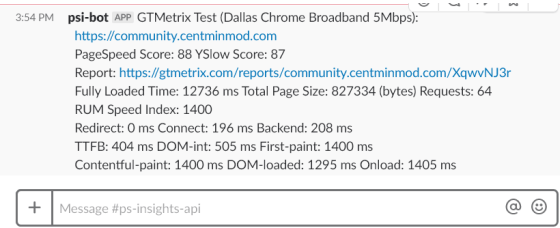
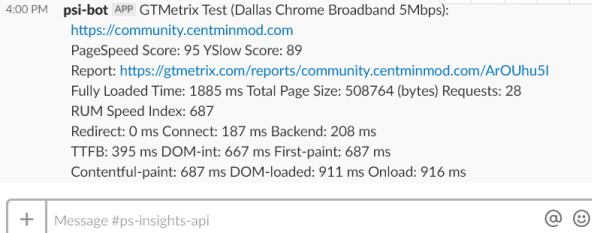
update readme

diff --git a/readme.md b/readme.md
@@ -776,55 +776,53 @@ cd /root/tools/google-insights-api-tools
 
 ./gitools.sh gtmetrix https://community.centminmod.com
 
-{"credits_left":60,"test_id":"EMhil9u9","poll_state_url":"https://gtmetrix.com/api/0.1/test/EMhil9u9"}
+{"credits_left":56,"test_id":"GBIHKb7W","poll_state_url":"https://gtmetrix.com/api/0.1/test/GBIHKb7W"}
 waiting on results...
 {
   "resources": {
-    "video": "https://gtmetrix.com/api/0.1/test/EMhil9u9/video",
-    "filmstrip": "https://gtmetrix.com/api/0.1/test/EMhil9u9/filmstrip",
-    "pagespeed_files": "https://gtmetrix.com/api/0.1/test/EMhil9u9/pagespeed-files",
-    "report_pdf_full": "https://gtmetrix.com/api/0.1/test/EMhil9u9/report-pdf?full=1",
-    "pagespeed": "https://gtmetrix.com/api/0.1/test/EMhil9u9/pagespeed",
-    "report_pdf": "https://gtmetrix.com/api/0.1/test/EMhil9u9/report-pdf",
-    "har": "https://gtmetrix.com/api/0.1/test/EMhil9u9/har",
-    "screenshot": "https://gtmetrix.com/api/0.1/test/EMhil9u9/screenshot",
-    "yslow": "https://gtmetrix.com/api/0.1/test/EMhil9u9/yslow"
+    "report_pdf": "https://gtmetrix.com/api/0.1/test/GBIHKb7W/report-pdf",
+    "pagespeed": "https://gtmetrix.com/api/0.1/test/GBIHKb7W/pagespeed",
+    "har": "https://gtmetrix.com/api/0.1/test/GBIHKb7W/har",
+    "pagespeed_files": "https://gtmetrix.com/api/0.1/test/GBIHKb7W/pagespeed-files",
+    "report_pdf_full": "https://gtmetrix.com/api/0.1/test/GBIHKb7W/report-pdf?full=1",
+    "yslow": "https://gtmetrix.com/api/0.1/test/GBIHKb7W/yslow",
+    "screenshot": "https://gtmetrix.com/api/0.1/test/GBIHKb7W/screenshot"
   },
   "error": "",
   "results": {
-    "onload_time": 1083,
-    "first_contentful_paint_time": 1010,
-    "page_elements": 45,
-    "report_url": "https://gtmetrix.com/reports/community.centminmod.com/gbsDci7b",
+    "onload_time": 916,
+    "first_contentful_paint_time": 687,
+    "page_elements": 28,
+    "report_url": "https://gtmetrix.com/reports/community.centminmod.com/ArOUhu5I",
     "redirect_duration": 0,
-    "first_paint_time": 1010,
+    "first_paint_time": 687,
     "dom_content_loaded_duration": null,
-    "dom_content_loaded_time": 1029,
-    "dom_interactive_time": 570,
-    "page_bytes": 756837,
-    "page_load_time": 1083,
-    "html_bytes": 16615,
-    "fully_loaded_time": 3168,
-    "html_load_time": 465,
-    "rum_speed_index": 1010,
-    "yslow_score": 88,
-    "pagespeed_score": 93,
-    "backend_duration": 221,
-    "onload_duration": 5,
-    "connect_duration": 244
+    "dom_content_loaded_time": 911,
+    "dom_interactive_time": 667,
+    "page_bytes": 508764,
+    "page_load_time": 916,
+    "html_bytes": 16691,
+    "fully_loaded_time": 1885,
+    "html_load_time": 395,
+    "rum_speed_index": 687,
+    "yslow_score": 89,
+    "pagespeed_score": 95,
+    "backend_duration": 208,
+    "onload_duration": 2,
+    "connect_duration": 187
   },
   "state": "completed"
 }
 
 --------------------------------------------------------------------------------
 GTMetrix Test (Dallas Chrome Broadband 5Mbps): https://community.centminmod.com
-PageSpeed Score: 93 YSlow Score: 88
-Report: https://gtmetrix.com/reports/community.centminmod.com/gbsDci7b
-Fully Loaded Time: 3168 ms Total Page Size: 756837 (bytes) Requests: 45
-RUM Speed Index: 1010
-Redirect: 0 ms Connect: 244 ms Backend: 221 ms
-TTFB: 465 ms DOM-int: 570 ms First-paint: 1010 ms
-Contentful-paint: 1010 ms DOM-loaded: 1029 ms Onload: 1083 ms
+PageSpeed Score: 95 YSlow Score: 89
+Report: https://gtmetrix.com/reports/community.centminmod.com/ArOUhu5I
+Fully Loaded Time: 1885 ms Total Page Size: 508764 (bytes) Requests: 28
+RUM Speed Index: 687
+Redirect: 0 ms Connect: 187 ms Backend: 208 ms
+TTFB: 395 ms DOM-int: 667 ms First-paint: 687 ms
+Contentful-paint: 687 ms DOM-loaded: 911 ms Onload: 916 ms
 ```
 
 ### GTMetrix Slack Channel
